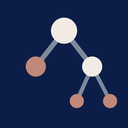
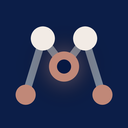
Rename to Agent Max
New identifier, display name, command ids and configuration keys. New mark:
an agent tree drawn as an M, with the root as the live node, matching the
activity bar glyph.

Changed region(s): [[0.0938, 0.125, 0.9375, 0.875]]

diff --git a/extension.js b/extension.js
@@ -7,7 +7,7 @@ const { spawn, spawnSync } = require("child_process");
 const WATCHER = "watch_agents.py";
 
 let server = null;    // watcher process, when this window is the one that started it
-let output = null;    // "Agent Exhibit" output channel
+let output = null;    // "Agent Max" output channel
 let tab = null;       // the single editor-tab webview, reused
 
 function log(line) {
@@ -15,7 +15,7 @@ function log(line) {
 }
 
 function cfg() {
-  const c = vscode.workspace.getConfiguration("agentExhibit");
+  const c = vscode.workspace.getConfiguration("agentMax");
   return {
     python: c.get("pythonPath", "").trim(),
     port: c.get("port", 8780),
@@ -106,7 +106,7 @@ async function startWatcher() {
 
   const py = findPython();
   if (!py) {
-    throw new Error("no Python 3 interpreter found. Install Python 3.9 or later, or set agentExhibit.pythonPath.");
+    throw new Error("no Python 3 interpreter found. Install Python 3.9 or later, or set agentMax.pythonPath.");
   }
 
   const args = [...py.prefix, WATCHER, "--port", String(port),
@@ -154,9 +154,9 @@ function failedHtml(reason) {
     <h3>Could not start the agent watcher.</h3>
     <p>${escapeHtml(reason || "")}</p>
     <p>It needs Python 3.9 or later on your PATH. If Python is installed somewhere
-       unusual, set <code>agentExhibit.pythonPath</code> in Settings.</p>
-    <p>Run <em>Agent Exhibit: Show Logs</em> for the full output, then
-       <em>Agent Exhibit: Restart Watcher</em>.</p>
+       unusual, set <code>agentMax.pythonPath</code> in Settings.</p>
+    <p>Run <em>Agent Max: Show Logs</em> for the full output, then
+       <em>Agent Max: Restart Watcher</em>.</p>
   </div>`);
 }
 
@@ -167,7 +167,7 @@ function escapeHtml(s) {
 
 // ── views ─────────────────────────────────────────────────────────────────
 
-class ExhibitViewProvider {
+class AgentMaxViewProvider {
   async resolveWebviewView(view) {
     this.view = view;
     view.webview.options = { enableScripts: true };
@@ -202,7 +202,7 @@ async function openAsTab() {
   }
 
   tab = vscode.window.createWebviewPanel(
-    "agentExhibit.tab", "Agents",
+    "agentMax.tab", "Agents",
     { viewColumn: vscode.ViewColumn.Beside, preserveFocus: true },
     { enableScripts: true, retainContextWhenHidden: true }
   );
@@ -223,19 +223,19 @@ async function openAsTab() {
 // ── lifecycle ─────────────────────────────────────────────────────────────
 
 function activate(context) {
-  output = vscode.window.createOutputChannel("Agent Exhibit");
-  const provider = new ExhibitViewProvider();
+  output = vscode.window.createOutputChannel("Agent Max");
+  const provider = new AgentMaxViewProvider();
 
   context.subscriptions.push(
     output,
-    vscode.window.registerWebviewViewProvider("agentExhibit.dashboard", provider),
+    vscode.window.registerWebviewViewProvider("agentMax.dashboard", provider),
 
-    vscode.commands.registerCommand("agentExhibit.open", () => openAsTab()),
+    vscode.commands.registerCommand("agentMax.open", () => openAsTab()),
 
-    vscode.commands.registerCommand("agentExhibit.focusPanel", () =>
-      vscode.commands.executeCommand("agentExhibit.dashboard.focus")),
+    vscode.commands.registerCommand("agentMax.focusPanel", () =>
+      vscode.commands.executeCommand("agentMax.dashboard.focus")),
 
-    vscode.commands.registerCommand("agentExhibit.restart", async () => {
+    vscode.commands.registerCommand("agentMax.restart", async () => {
       stopWatcher();
       await provider.reload();
       if (tab) {
@@ -244,13 +244,13 @@ function activate(context) {
         try { await startWatcher(); tab.webview.html = frameHtml(port); }
         catch (err) { tab.webview.html = failedHtml(err.message); }
       }
-      vscode.window.showInformationMessage("Agent Exhibit: watcher restarted.");
+      vscode.window.showInformationMessage("Agent Max: watcher restarted.");
     }),
 
-    vscode.commands.registerCommand("agentExhibit.openExternal", () =>
+    vscode.commands.registerCommand("agentMax.openExternal", () =>
       vscode.env.openExternal(vscode.Uri.parse(`http://localhost:${cfg().port}/`))),
 
-    vscode.commands.registerCommand("agentExhibit.showLogs", () => output.show(true)),
+    vscode.commands.registerCommand("agentMax.showLogs", () => output.show(true)),
 
     { dispose: stopWatcher }
   );

diff --git a/README.md b/README.md
@@ -1,4 +1,6 @@
-# Agent Exhibit
+<img src="docs/logo.png" alt="" width="84" align="left" hspace="14" vspace="4">
+
+# Agent Max
 
 A live view of what your Claude Code agents are actually doing.
 
@@ -69,31 +71,31 @@ number in the output back to the call that produced it.
 script with no pip dependencies, bundled with the extension.
 
 It is found automatically: `py -3` on Windows, then `python3`, then `python`.
-If yours lives somewhere unusual, set `agentExhibit.pythonPath`.
+If yours lives somewhere unusual, set `agentMax.pythonPath`.
 
 ## Use
 
-Open the **Agents** panel at the bottom, or run **Agent Exhibit: Open Beside
+Open the **Agents** panel at the bottom, or run **Agent Max: Open Beside
 Editor** from the command palette. The watcher starts on first open.
 
 | Command | |
 |---|---|
-| `Agent Exhibit: Open Beside Editor` | opens it as an editor tab |
-| `Agent Exhibit: Show in Bottom Panel` | focuses the panel view |
-| `Agent Exhibit: Restart Watcher` | stops and restarts the local process |
-| `Agent Exhibit: Open in Browser` | opens the same page outside VS Code |
-| `Agent Exhibit: Show Logs` | the output channel, when something is wrong |
+| `Agent Max: Open Beside Editor` | opens it as an editor tab |
+| `Agent Max: Show in Bottom Panel` | focuses the panel view |
+| `Agent Max: Restart Watcher` | stops and restarts the local process |
+| `Agent Max: Open in Browser` | opens the same page outside VS Code |
+| `Agent Max: Show Logs` | the output channel, when something is wrong |
 
 ## Settings
 
 | Setting | Default | |
 |---|---|---|
-| `agentExhibit.pythonPath` | auto | Interpreter used to run the watcher |
-| `agentExhibit.port` | `8780` | Localhost port |
-| `agentExhibit.limit` | `16` | Transcripts watched at once |
-| `agentExhibit.recentMinutes` | `90` | Hide agents idle longer than this. `0` shows all |
-| `agentExhibit.autoStart` | `true` | Start the watcher when the view opens |
-| `agentExhibit.watcherDir` | bundled | Point at your own copy of the watcher |
+| `agentMax.pythonPath` | auto | Interpreter used to run the watcher |
+| `agentMax.port` | `8780` | Localhost port |
+| `agentMax.limit` | `16` | Transcripts watched at once |
+| `agentMax.recentMinutes` | `90` | Hide agents idle longer than this. `0` shows all |
+| `agentMax.autoStart` | `true` | Start the watcher when the view opens |
+| `agentMax.watcherDir` | bundled | Point at your own copy of the watcher |
 
 `limit` is worth knowing about. Agents past the cap are hidden without warning,
 so if a run fans out wider than you expected, raise it.
